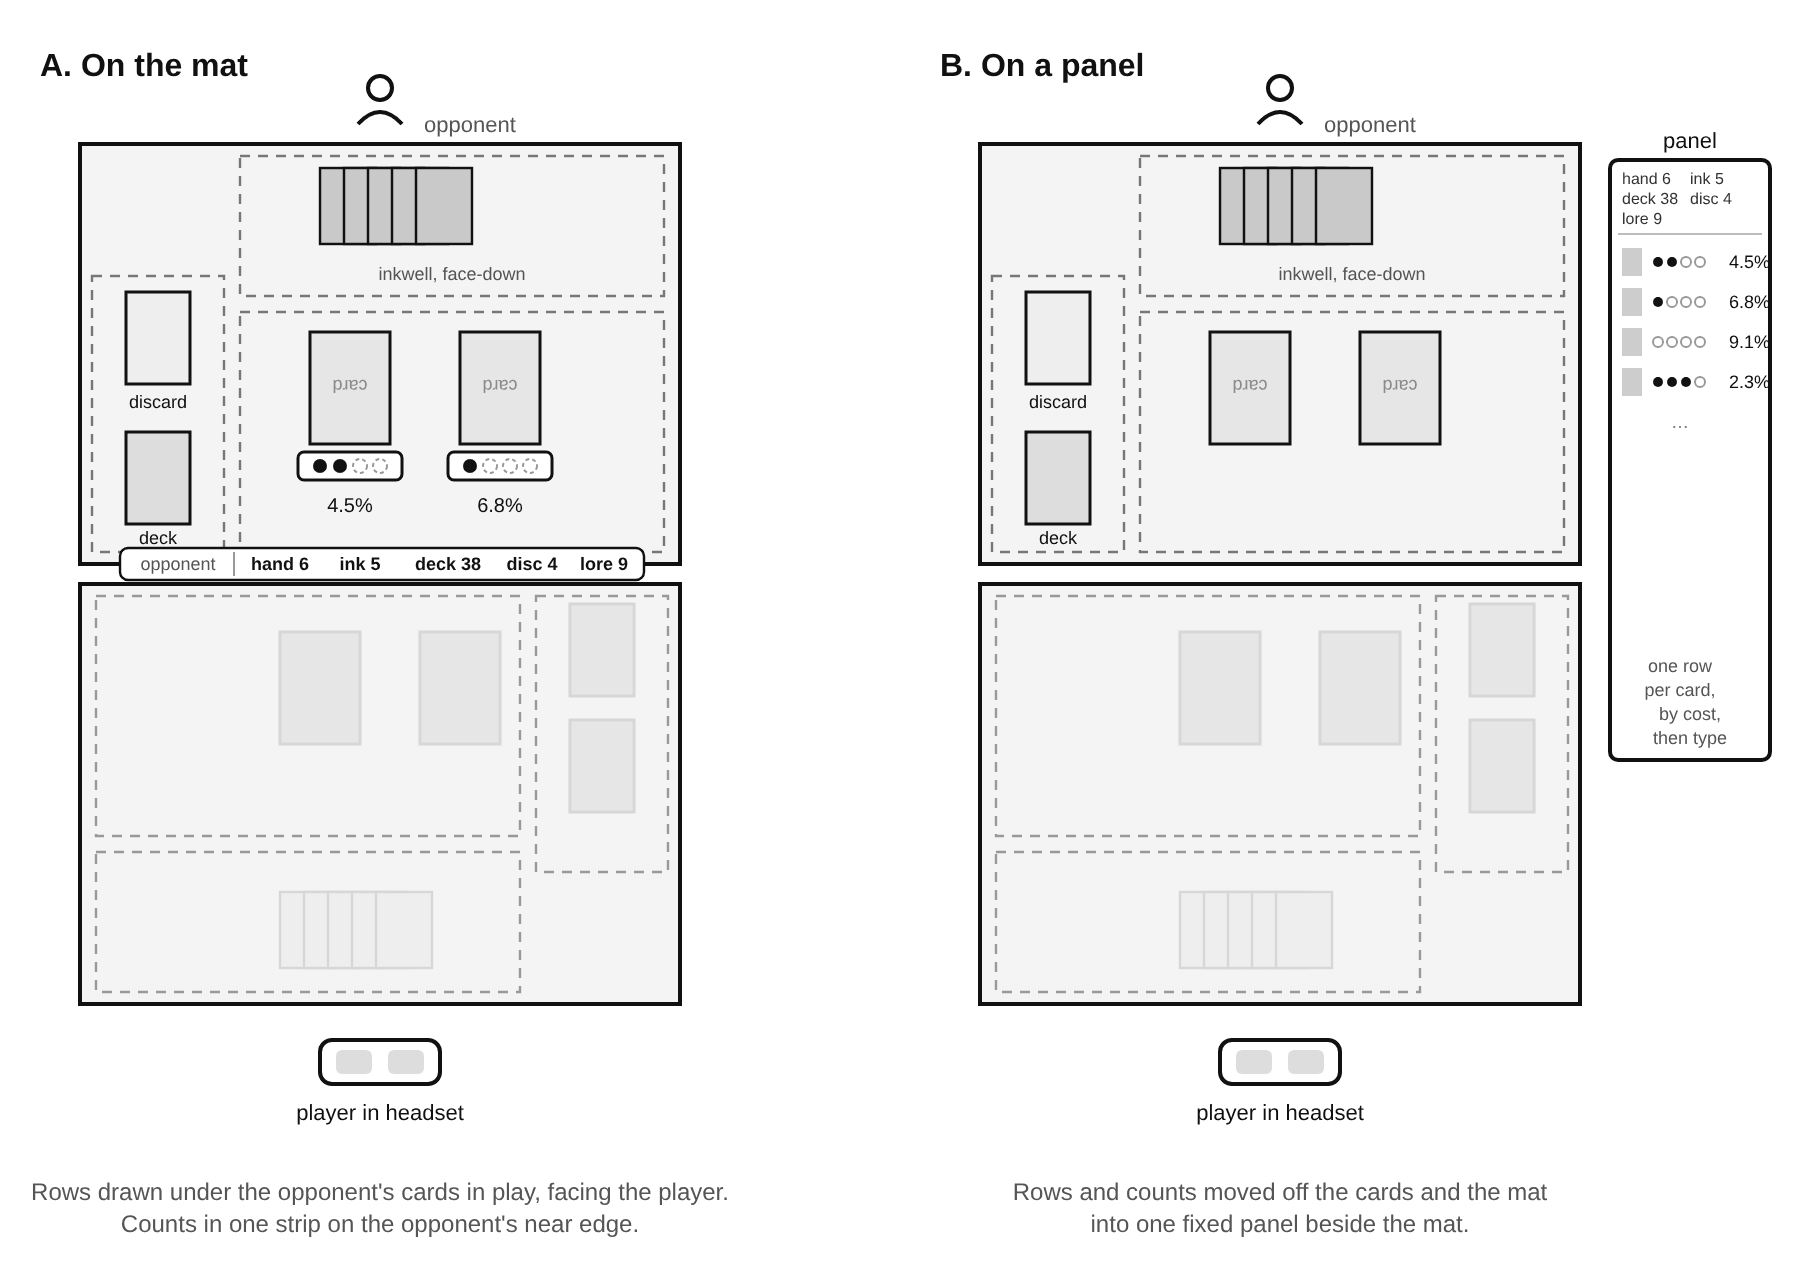
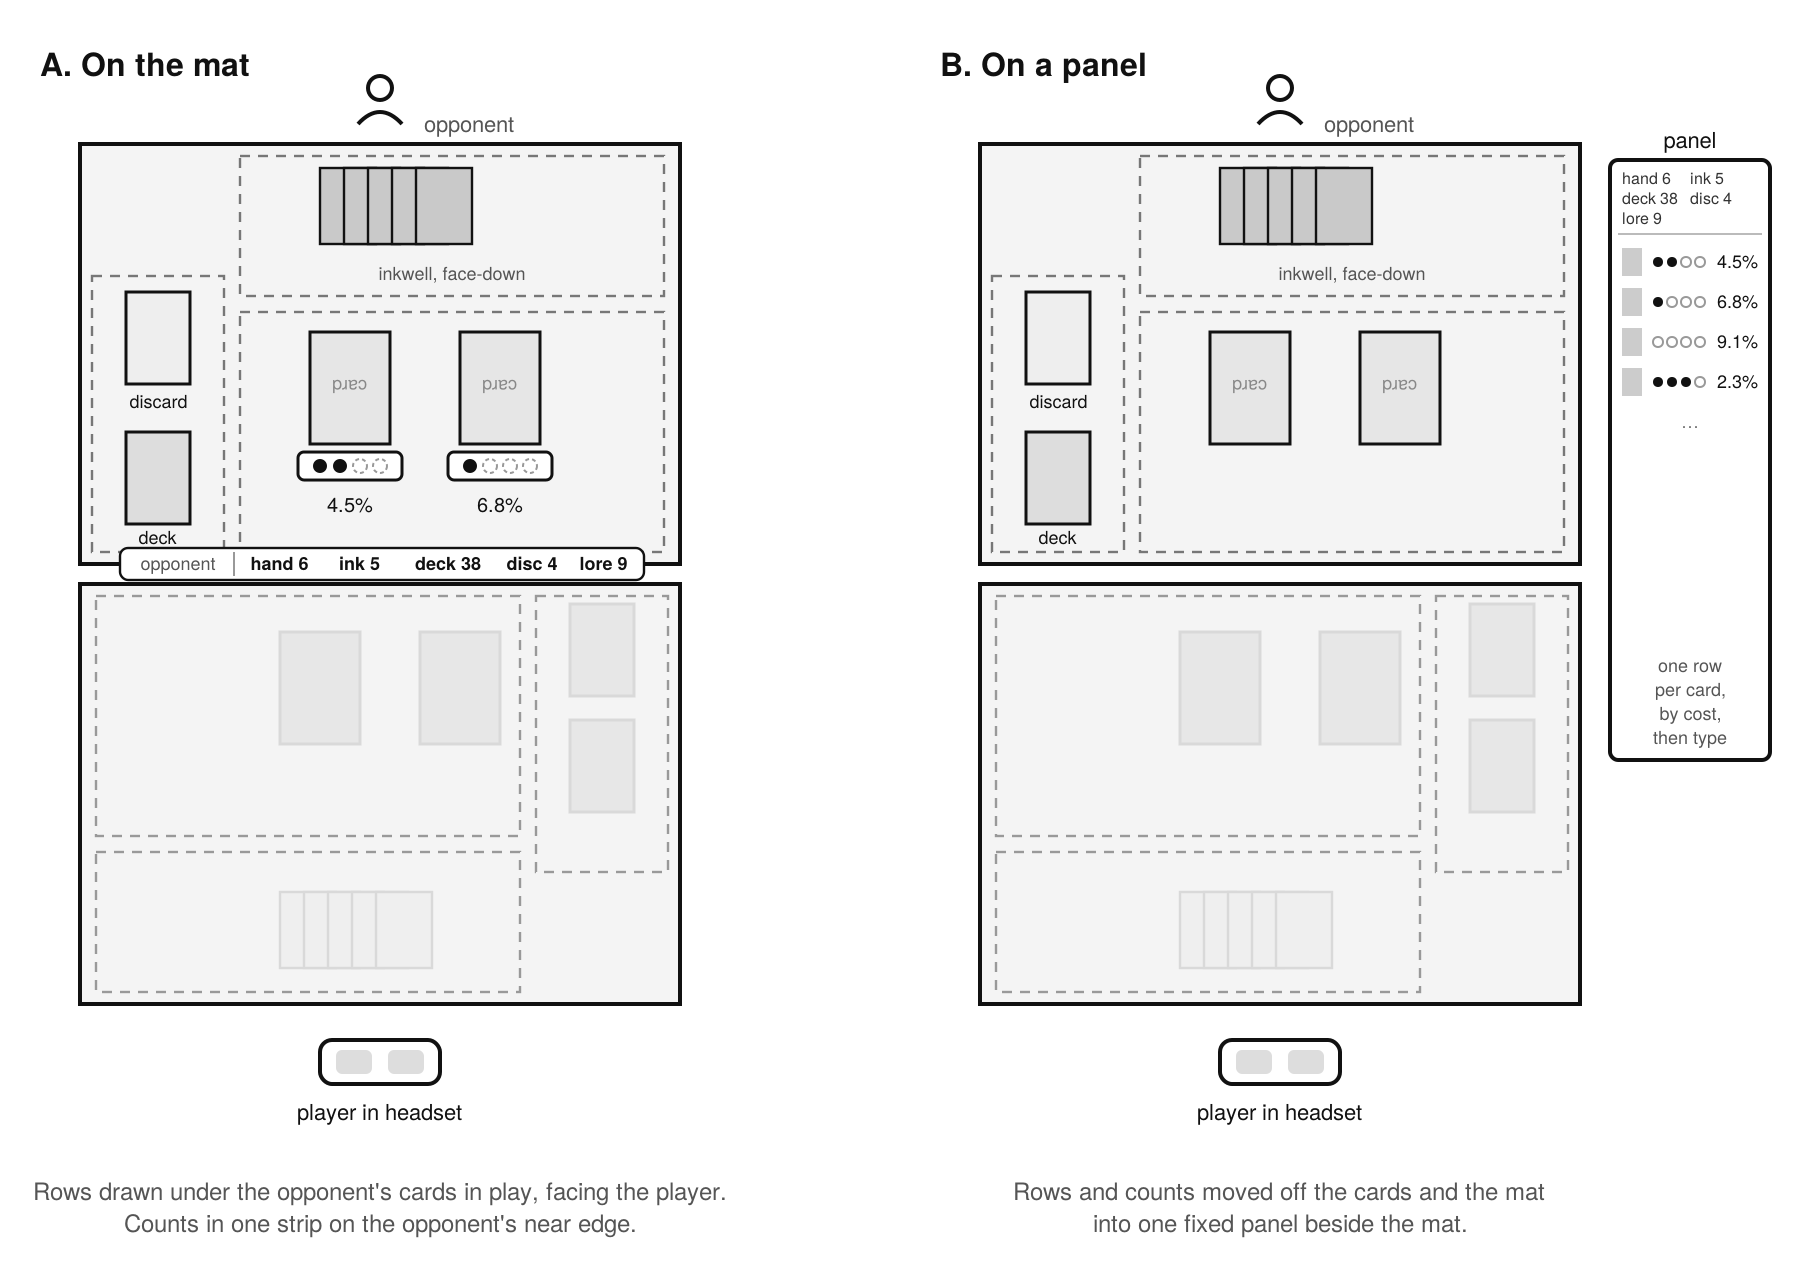
Restructure README; fix Figure 2 alignment

diff --git a/README.md b/README.md
@@ -4,11 +4,13 @@ InkZero AR is a passive overlay on a passthrough headset. It shows a Disney Lorc
 
 Lorcana is a two-player trading card game with 60-card decks and hidden hands. A lot of what decides a game is information the player has already seen and has to hold in their head: which cards the opponent inked, discarded or revealed. InkZero AR keeps that information in view, drawn on the mat under the cards or in a panel beside it, while the player plays the game the way it is always played.
 
-![Figure 2: the overlay on the mat, and the overlay on a panel](ar/docs/proposal/figures/fig2_placements.png)
+![The overlay on the mat, and the overlay on a panel](ar/docs/proposal/figures/fig2_placements.png)
 
-*On the mat, or on a panel. The project builds both and compares them.*
+It is designed as a free helper for practice and casual play. It is not for tournaments. Card images and card data come from a public Lorcana card API, under Ravensburger's community guidelines.
 
-This is my project for HCC 552, AR/VR Design and Research, at Grand Valley State University, Fall 2026. The proposal: [PDF](ar/docs/proposal/proposal.pdf), [Markdown](ar/docs/proposal/proposal.md).
+## The course project
+
+InkZero AR is my final project for HCC 552, AR/VR Design and Research, at Grand Valley State University, Fall 2026. The proposal is the place to start: [PDF](ar/docs/proposal/proposal.pdf), [Markdown](ar/docs/proposal/proposal.md).
 
 ## Layout
 
@@ -21,10 +23,6 @@ ar/tools/            small scripts that are not the app
 ar/unity/            the Unity project, from Sprint 1
 ```
 
-## Positioning
-
-InkZero AR is designed as a free helper for practice and casual play. It is not for tournaments. Card images and card data come from a public Lorcana card API, under Ravensburger's community guidelines.
-
 ## Author and license
 
 Arthur Bowman, M.S. in Artificial Intelligence, Grand Valley State University.
@@ -33,4 +31,6 @@ Arthur Bowman, M.S. in Artificial Intelligence, Grand Valley State University.
 
 InkZero AR is unofficial Fan Content permitted under Ravensburger's community guidelines. Not approved or endorsed by Disney or Ravensburger. Disney Lorcana and all related characters and elements are the property of Disney and Ravensburger.
 
-AI use: I used Claude, an AI assistant, as a tool to help draft and edit the documents in this repo. The design and the judgment behind it are mine.
+## AI use
+
+I used Claude, an AI assistant, as a tool to help draft and edit the documents in this repo. The design and the judgment behind it are mine.
